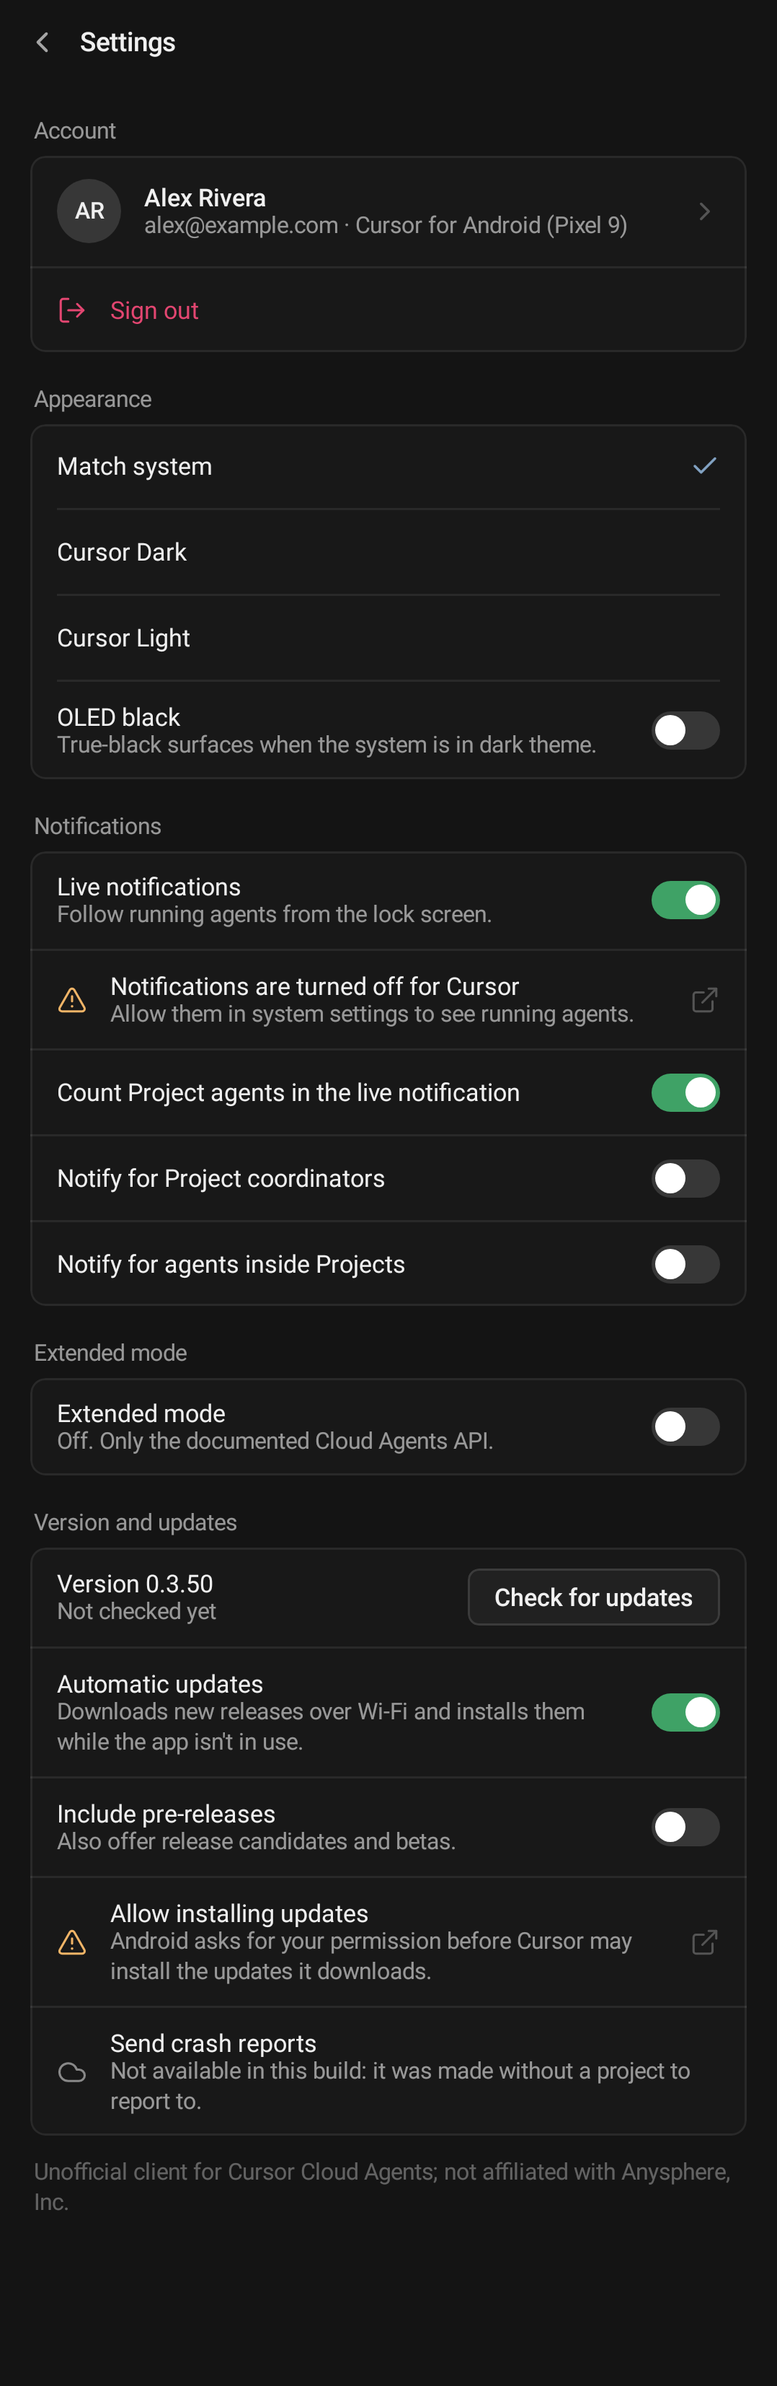
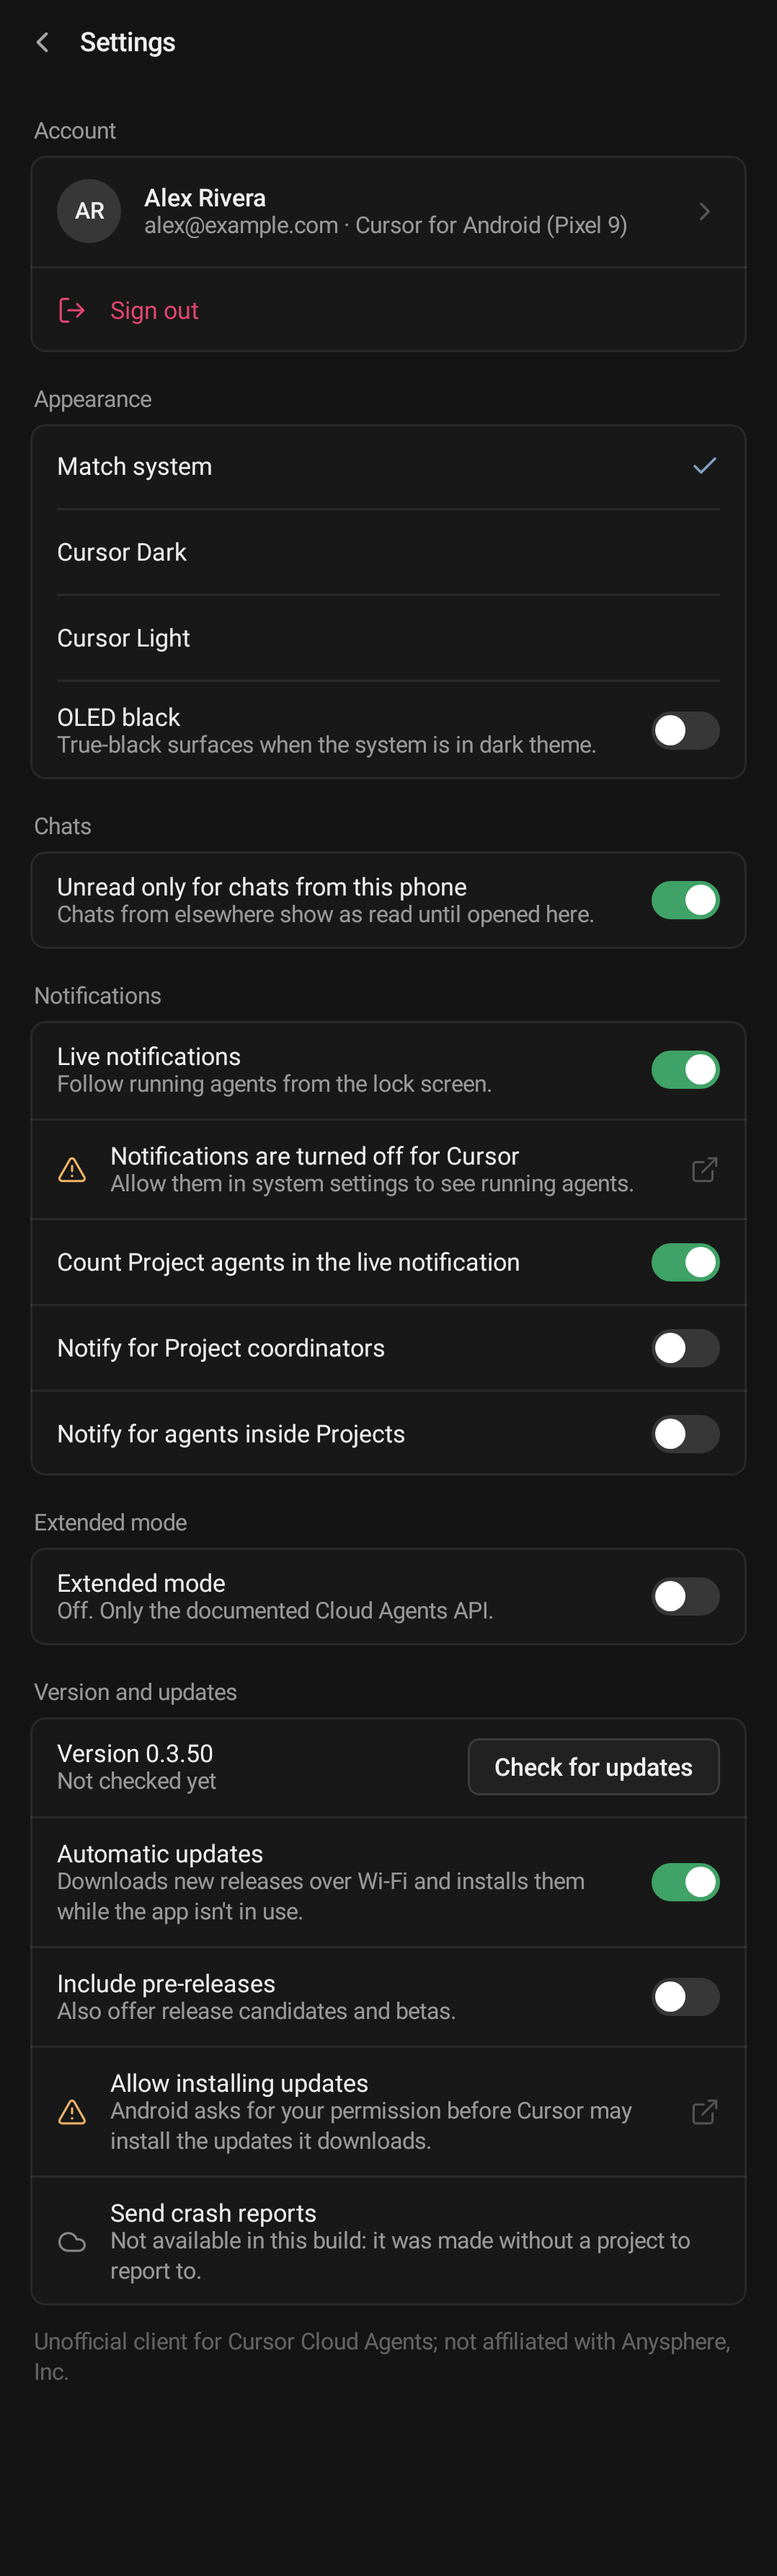
Screenshots: the sidebar over one account state with the unread switch off (143) and on (144), the Settings row (145); the Settings frames re-recorded for the Chats group, the whole-list canvas taller so the disclaimer still fits

diff --git a/app/src/test/java/com/cursorforandroid/screenshots/UnreadThisPhoneScreenshotTest.kt b/app/src/test/java/com/cursorforandroid/screenshots/UnreadThisPhoneScreenshotTest.kt
@@ -1,0 +1,207 @@
+package com.cursorforandroid.screenshots
+
+import android.content.Context
+import androidx.activity.ComponentActivity
+import androidx.compose.foundation.layout.Box
+import androidx.compose.foundation.layout.fillMaxSize
+import androidx.compose.material3.ExperimentalMaterial3Api
+import androidx.compose.material3.LocalRippleConfiguration
+import androidx.compose.runtime.Composable
+import androidx.compose.runtime.CompositionLocalProvider
+import androidx.compose.ui.Modifier
+import androidx.compose.ui.test.hasTestTag
+import androidx.compose.ui.test.junit4.createAndroidComposeRule
+import androidx.compose.ui.test.onAllNodesWithText
+import androidx.compose.ui.test.onNodeWithTag
+import androidx.test.core.app.ApplicationProvider
+import androidx.test.ext.junit.runners.AndroidJUnit4
+import com.cursorforandroid.AppGraph
+import com.cursorforandroid.data.local.SecureKeyStore
+import com.cursorforandroid.domain.Agent
+import com.cursorforandroid.domain.AgentLifecycle
+import com.cursorforandroid.domain.AgentListOrganizer
+import com.cursorforandroid.domain.AgentParent
+import com.cursorforandroid.domain.AgentParentKind
+import com.cursorforandroid.domain.CursorUser
+import com.cursorforandroid.domain.EnvType
+import com.cursorforandroid.domain.GitBranch
+import com.cursorforandroid.domain.ListPreferences
+import com.cursorforandroid.domain.LocalAgentState
+import com.cursorforandroid.domain.ProjectAppearance
+import com.cursorforandroid.domain.RunStatus
+import com.cursorforandroid.ui.agents.AgentListUiState
+import com.cursorforandroid.ui.agents.AgentRowActions
+import com.cursorforandroid.ui.agents.Sidebar
+import com.cursorforandroid.ui.agents.SidebarCallbacks
+import com.cursorforandroid.ui.settings.SettingsScreen
+import com.cursorforandroid.ui.settings.SettingsTags
+import com.cursorforandroid.ui.theme.CursorTheme
+import com.cursorforandroid.ui.theme.ThemeMode
+import com.cursorforandroid.util.AppClock
+import com.github.takahirom.roborazzi.ExperimentalRoborazziApi
+import com.github.takahirom.roborazzi.RoborazziOptions
+import com.github.takahirom.roborazzi.captureScreenRoboImage
+import org.junit.After
+import org.junit.Rule
+import org.junit.Test
+import org.junit.runner.RunWith
+import org.robolectric.annotation.Config
+import org.robolectric.annotation.GraphicsMode
+import java.io.File
+import java.time.ZoneOffset
+import java.util.Locale
+import java.util.TimeZone
+
+/**
+ * Settings › "Unread only for chats from this phone": the sidebar over one account state — most of it started on the
+ * laptop, one chat launched from this phone, two opened here — with the switch off (every chat this phone has no read
+ * marker for is unread, the Project wears the badge, the folded Yesterday group its dot) and on (only the chats this
+ * phone touched can be), composed by the real organizer from the same agents; then the Settings row itself.
+ */
+@OptIn(ExperimentalMaterial3Api::class, ExperimentalRoborazziApi::class)
+@RunWith(AndroidJUnit4::class)
+@GraphicsMode(GraphicsMode.Mode.NATIVE)
+@Config(sdk = [35], qualifiers = "w411dp-h914dp-night-420dpi")
+class UnreadThisPhoneScreenshotTest {
+
+    @get:Rule
+    val compose = createAndroidComposeRule<ComponentActivity>()
+
+    private val outDir = File(System.getProperty("user.dir"), "../screenshots").normalize()
+
+    @After
+    fun restoreClock() {
+        AppClock.nowMillis = System::currentTimeMillis
+    }
+
+    private fun capture(name: String) {
+        compose.waitForIdle()
+        captureScreenRoboImage(File(outDir, "$name.png").path, RoborazziOptions())
+    }
+
+    @Composable
+    private fun Scene(content: @Composable () -> Unit) {
+        CursorTheme(mode = ThemeMode.Dark) {
+            // Ripples on API 31+ animate a noise "sparkle", so a frame caught mid-fade is never reproducible.
+            CompositionLocalProvider(LocalRippleConfiguration provides null) {
+                Box(Modifier.fillMaxSize()) { content() }
+            }
+        }
+    }
+
+    private fun agent(id: String, name: String, ageMinutes: Long, running: Boolean = false, branch: String? = null, appearance: ProjectAppearance? = null, parent: String? = null) = Agent(
+        id = id,
+        name = name,
+        lifecycle = if (running) AgentLifecycle.ACTIVE else AgentLifecycle.IDLE,
+        runStatus = if (running) RunStatus.RUNNING else RunStatus.FINISHED,
+        envType = EnvType.CLOUD,
+        envName = null,
+        url = "https://cursor.com/agents/$id",
+        createdAtMillis = NOW - (ageMinutes + 40) * 60_000L,
+        updatedAtMillis = NOW - ageMinutes * 60_000L,
+        latestRunId = null,
+        repoUrl = "https://github.com/acme/$id",
+        startingRef = "main",
+        branches = if (branch != null) listOf(GitBranch("github.com/acme/$id", branch, null)) else emptyList(),
+        isProject = appearance != null,
+        projectAppearance = appearance,
+        parent = parent?.let { AgentParent(it, AgentParentKind.PROJECT_WORKER) },
+    )
+
+    private val agents = listOf(
+        agent("billing", "Cesium billing launch", 50, appearance = ProjectAppearance("rocket", "purple")),
+        agent("billing-w1", "Stripe webhook handler", 55, parent = "billing", branch = "cursor/webhooks"),
+        agent("billing-w2", "Usage events aggregation", 58, parent = "billing", branch = "cursor/usage"),
+        agent("shipyard", "Shipyard", 65, running = true, appearance = ProjectAppearance("logo-github", "blue")),
+        agent("strategy", "Cesium Revenue Strategy", 26 * 60, running = true),
+        agent("notes", "Release notes for 0.3.62", 12, branch = "cursor/release-notes"),
+        agent("webhooks", "Refactor billing webhooks", 19, branch = "cursor/billing-webhooks"),
+        agent("flaky", "Fix the flaky upload test", 27, branch = "cursor/flaky-upload"),
+        agent("codex", "Codex-Poly-Bot Scaling", 34, running = true),
+        agent("audit", "Dependency audit", 48, branch = "cursor/audit"),
+        agent("onboarding", "Onboarding copy pass", 2 * 60),
+        agent("release", "Latest release process", 28 * 60, branch = "cursor/release"),
+        agent("deps", "Weekly dependency bump", 30 * 60, branch = "cursor/deps"),
+    )
+
+    /**
+     * What this phone holds: "Release notes" launched here (its marker from the launch, the run finished since), "Fix
+     * the flaky upload test" opened here once and moved on since from the laptop, "Onboarding copy pass" opened here
+     * and read, Shipyard opened here; everything else it has never touched. The same for both frames but the switch.
+     */
+    private fun local(switchOn: Boolean): LocalAgentState {
+        val at = agents.associate { it.id to it.listedAtMillis }
+        return LocalAgentState(
+            pinnedIds = setOf("strategy"),
+            readMarkers = mapOf("notes" to at.getValue("notes") - 5 * 60_000L, "flaky" to at.getValue("flaky") - 60 * 60_000L, "onboarding" to at.getValue("onboarding"), "shipyard" to at.getValue("shipyard")),
+            launchedHereIds = setOf("notes"),
+            touchedHereIds = setOf("notes", "flaky", "onboarding", "shipyard"),
+            unreadOnlyTouchedHere = switchOn,
+        )
+    }
+
+    private fun showSidebar(switchOn: Boolean) {
+        val local = local(switchOn)
+        val sections = AgentListOrganizer.organize(agents, ListPreferences(), local, nowMillis = NOW, zone = ZoneOffset.UTC)
+        compose.setContent {
+            Scene {
+                Sidebar(
+                    state = AgentListUiState(sections = sections, hasLoaded = true, prefs = ListPreferences(), local = local, collapsedSections = setOf("date:Yesterday"), nowMillis = NOW),
+                    user = USER,
+                    isDemo = false,
+                    selectedAgentId = null,
+                    selectedDestination = null,
+                    onQueryChange = {},
+                    callbacks = SidebarCallbacks(
+                        onNewChat = {},
+                        onSettings = {},
+                        onCustomize = {},
+                        onToggleSidebar = {},
+                        onRefresh = {},
+                        rowActions = AgentRowActions({}, {}, {}, {}, { _, _ -> }, { _, _ -> }, {}),
+                        onNewProject = {},
+                    ),
+                    extendedMode = true,
+                )
+            }
+        }
+        compose.waitUntil(10_000) { compose.onAllNodesWithText("Onboarding copy pass").fetchSemanticsNodes().isNotEmpty() }
+    }
+
+    @Test
+    fun sidebarSwitchOff() {
+        showSidebar(switchOn = false)
+        compose.onNodeWithTag(YESTERDAY_DOT, useUnmergedTree = true).assertExists()
+        capture("143_sidebar_unread_switch_off")
+    }
+
+    @Test
+    fun sidebarSwitchOn() {
+        showSidebar(switchOn = true)
+        compose.onAllNodes(hasTestTag(YESTERDAY_DOT), useUnmergedTree = true).fetchSemanticsNodes().let { check(it.isEmpty()) { "The folded group of untouched chats still carries a dot." } }
+        capture("144_sidebar_unread_switch_on")
+    }
+
+    @Test
+    fun settingsRow() {
+        TimeZone.setDefault(TimeZone.getTimeZone("UTC"))
+        Locale.setDefault(Locale.US)
+        AppClock.nowMillis = { NOW }
+        val context = ApplicationProvider.getApplicationContext<Context>()
+        // Robolectric has no Android Keystore; an ordinary private file stands in, as in AppScreenshotTest.
+        val graph = AppGraph(context, SecureKeyStore(context) { context.getSharedPreferences("stand-in-secure", Context.MODE_PRIVATE) }, appVersion = SCREENSHOT_APP_VERSION)
+        compose.setContent {
+            Scene { SettingsScreen(graph = graph, user = USER, isDemo = false, onOpenSidebar = null, onBack = {}) }
+        }
+        compose.waitUntil(30_000) { compose.onAllNodes(hasTestTag(SettingsTags.UNREAD_THIS_PHONE)).fetchSemanticsNodes().isNotEmpty() }
+        capture("145_settings_unread_this_phone")
+    }
+
+    private companion object {
+        /** Wednesday 2025-01-15 14:00 UTC, the walkthrough's clock. */
+        const val NOW = 1_736_949_600_000L
+        /** The dot a folded group's header carries while a row it hides is unread (see `SidebarSectionHeader`). */
+        const val YESTERDAY_DOT = "section-unread-date:Yesterday"
+        val USER = CursorUser("Cursor for Android (Pixel 9)", "bennett@example.com", "Bennett", "Buhner", 1L)
+    }
+}

diff --git a/app/src/test/java/com/cursorforandroid/screenshots/SettingsScreenshotTest.kt b/app/src/test/java/com/cursorforandroid/screenshots/SettingsScreenshotTest.kt
@@ -130,7 +130,7 @@ class SettingsScreenshotTest {
 
     /** The whole list at once, on a canvas tall enough to hold it: the account first and the disclaimer last. */
     @Test
-    @Config(sdk = [35], qualifiers = "w411dp-h1260dp-night-420dpi")
+    @Config(sdk = [35], qualifiers = "w411dp-h1360dp-night-420dpi")
     fun settingsEssentials() {
         composeSettings()
         compose.onNodeWithText(SettingsCopy.GROUP_ACCOUNT).assertIsDisplayed()
